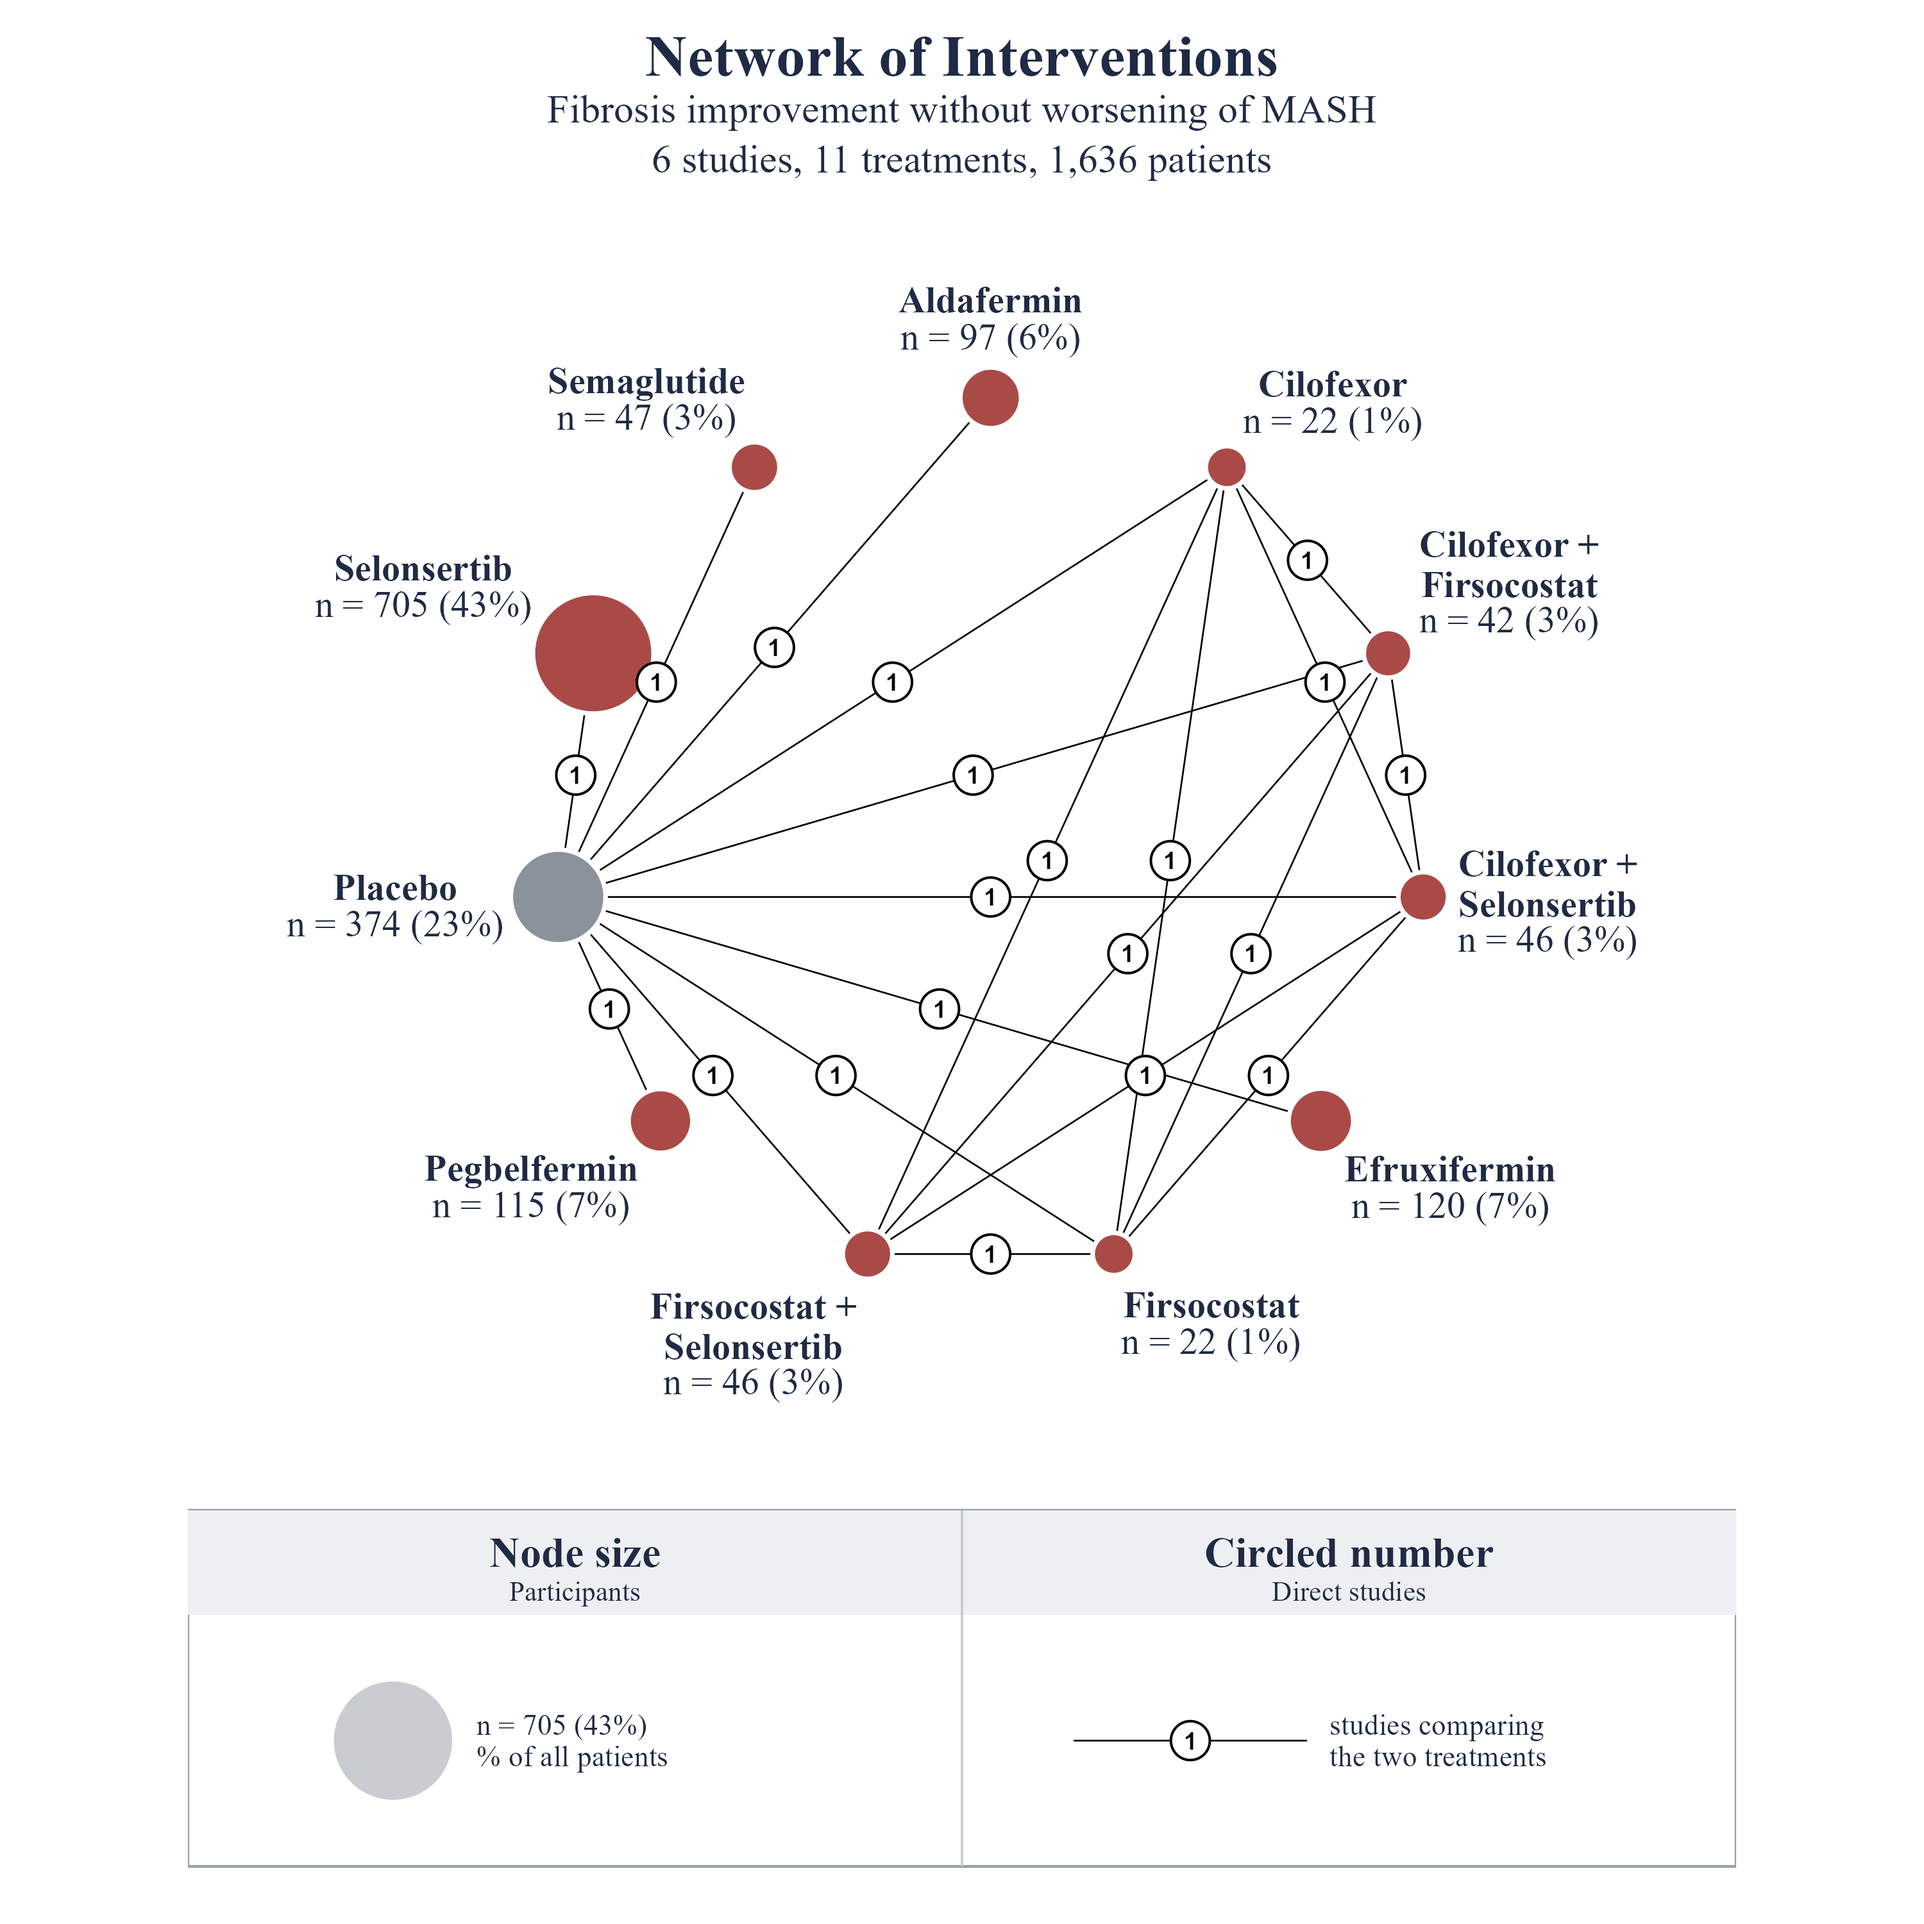
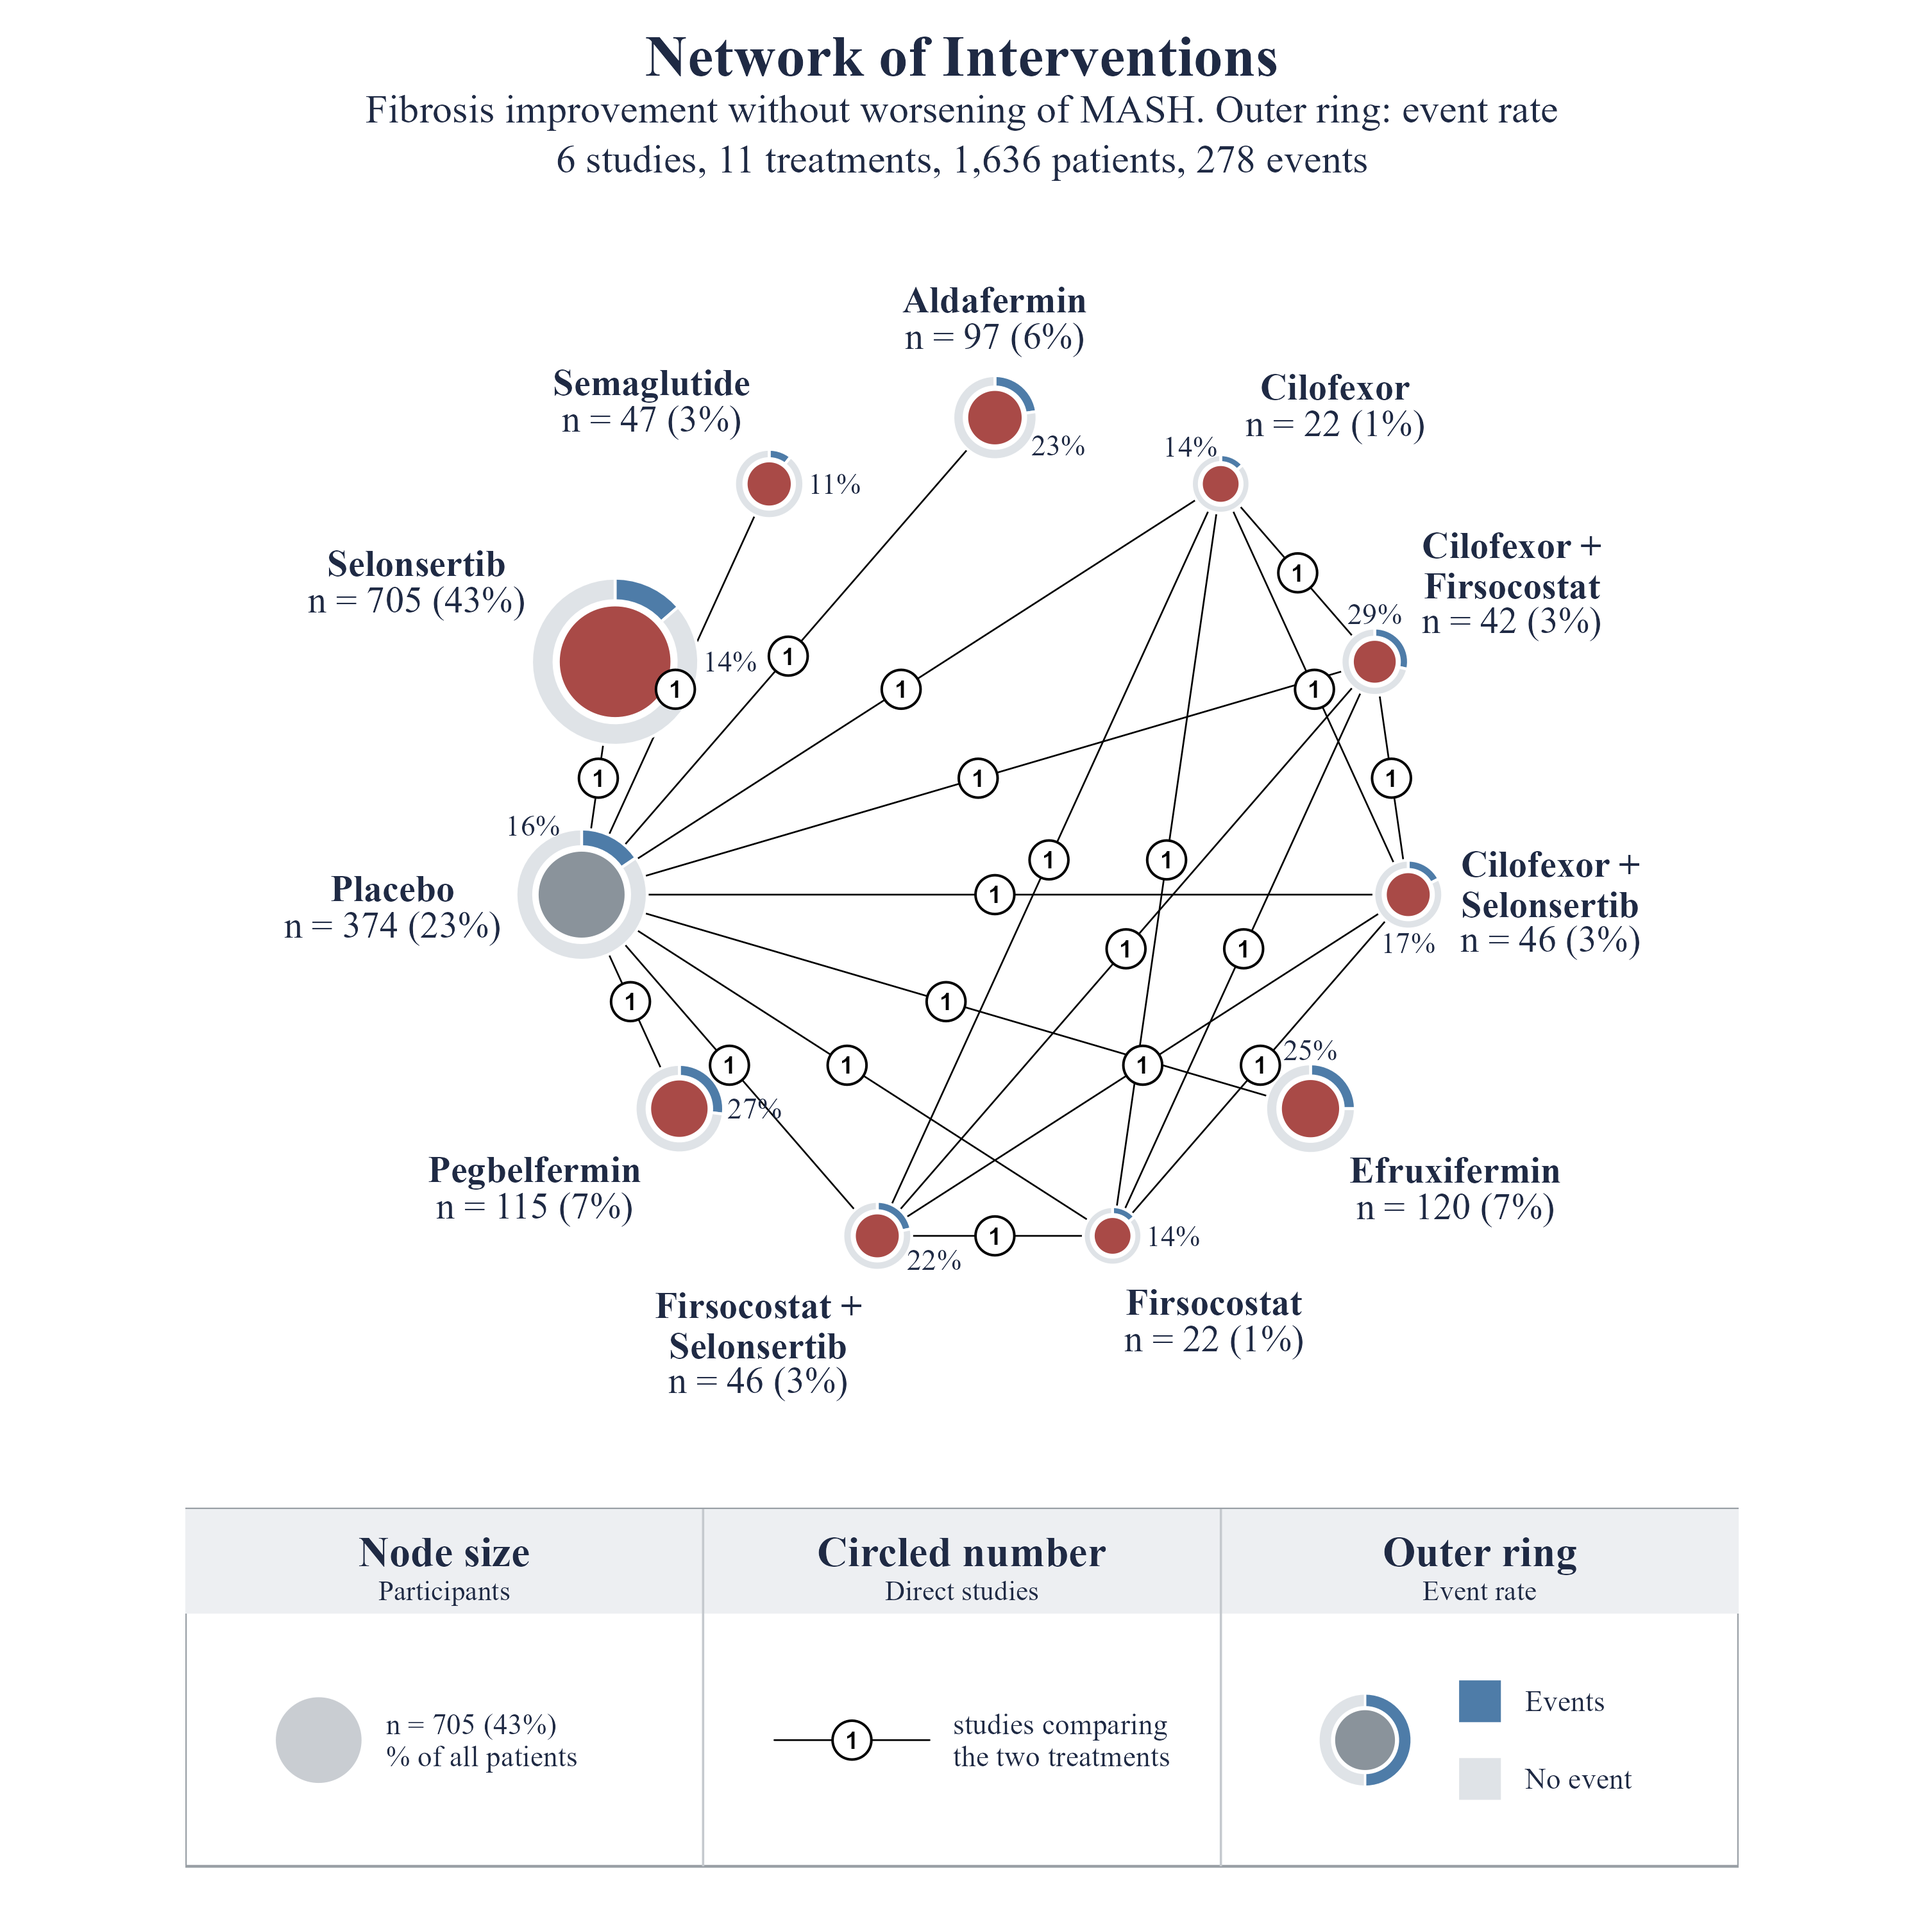
feat: event-rate ring by default on binary networks, total events in the summary line
- ring = NULL now draws each treatment's event rate (events over participants,
  from the netmeta object) when the network is binary; ring = FALSE removes
  it and any ring of your own replaces it. Continuous networks unchanged.
- one percentage per node, the event rate, free to sit anywhere on the ring so
  a thin event segment still lands clear of the label and the edges
- the summary line ends with the total number of events on binary networks
- guard a NULL reference_fill in the legend ring example

diff --git a/NEWS.md b/NEWS.md
@@ -1,5 +1,11 @@
 # nmaplots 0.2.0.9000
 
+* Binary networks draw an event-rate ring by default: each node shows events
+  over participants, with that one percentage printed outside the ring.
+  `ring = FALSE` removes it, any `ring` of your own replaces it, and
+  continuous networks are unchanged.
+* The summary line under the subtitle ends with the total number of events
+  when the network is binary.
 * Thinner default edges (`edge_width_range = c(0.3, 2)` mm).
 * Node labels put the share on the same row as the count, `n = 374 (23%)`.
 * Legend: every section header sits on a shaded band, with a larger bold name

diff --git a/README.md b/README.md
@@ -56,6 +56,7 @@ with fibrosis, four outcomes (`?mash`). Its `design` column is illustrative.
 | Feature | Argument(s) |
 |---|---|
 | Outcome and ring names | `outcome` (subtitle), `ring_name` (subtitle + legend) |
+| Event-rate ring on binary networks | drawn by default; `ring = FALSE` removes it |
 | Subgroup ring around nodes | `ring` (long data frame treatment/group/value, or wide matrix), `ring_colors`, `ring_width`, `ring_labels`, `ring_title` |
 | Boxed legend below the network | on by default; `legend = FALSE` removes it, `legend_size` |
 | Fonts | `font_family = "serif"` (default) or `"sans"` |
